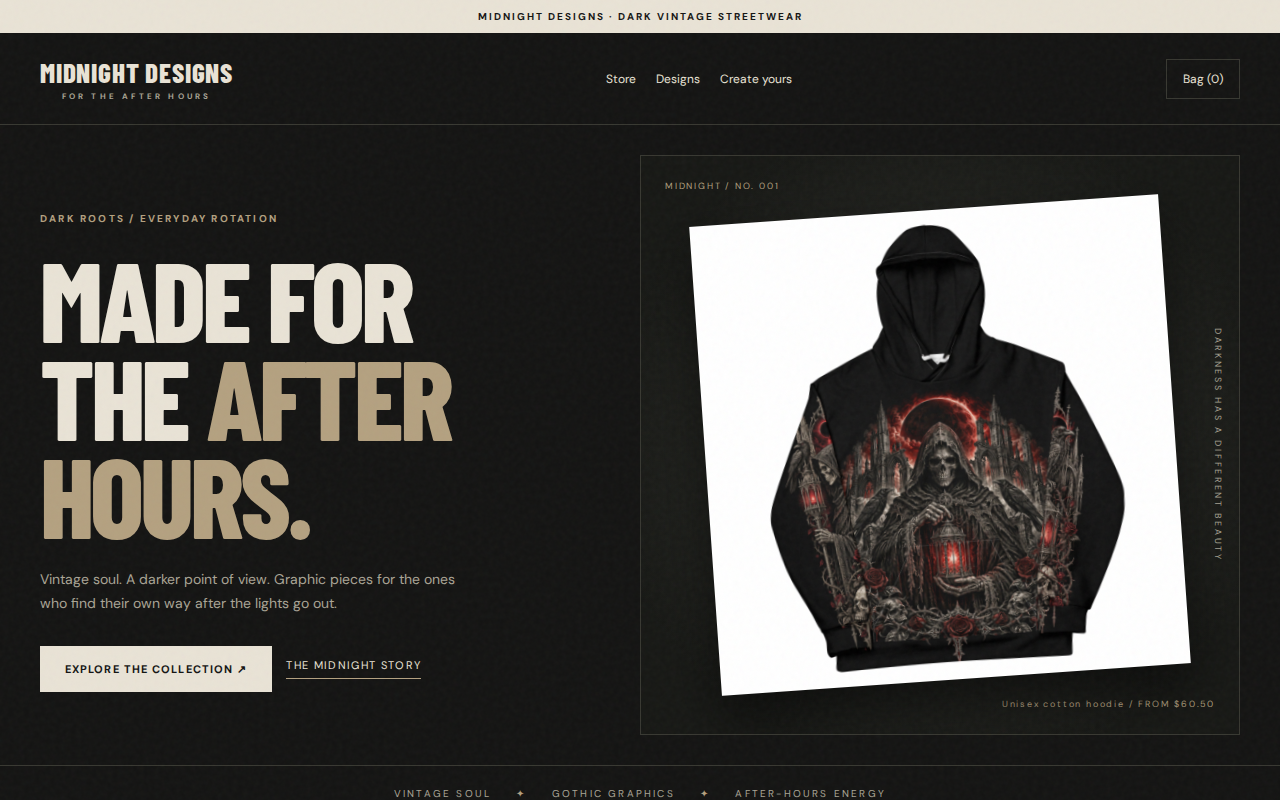
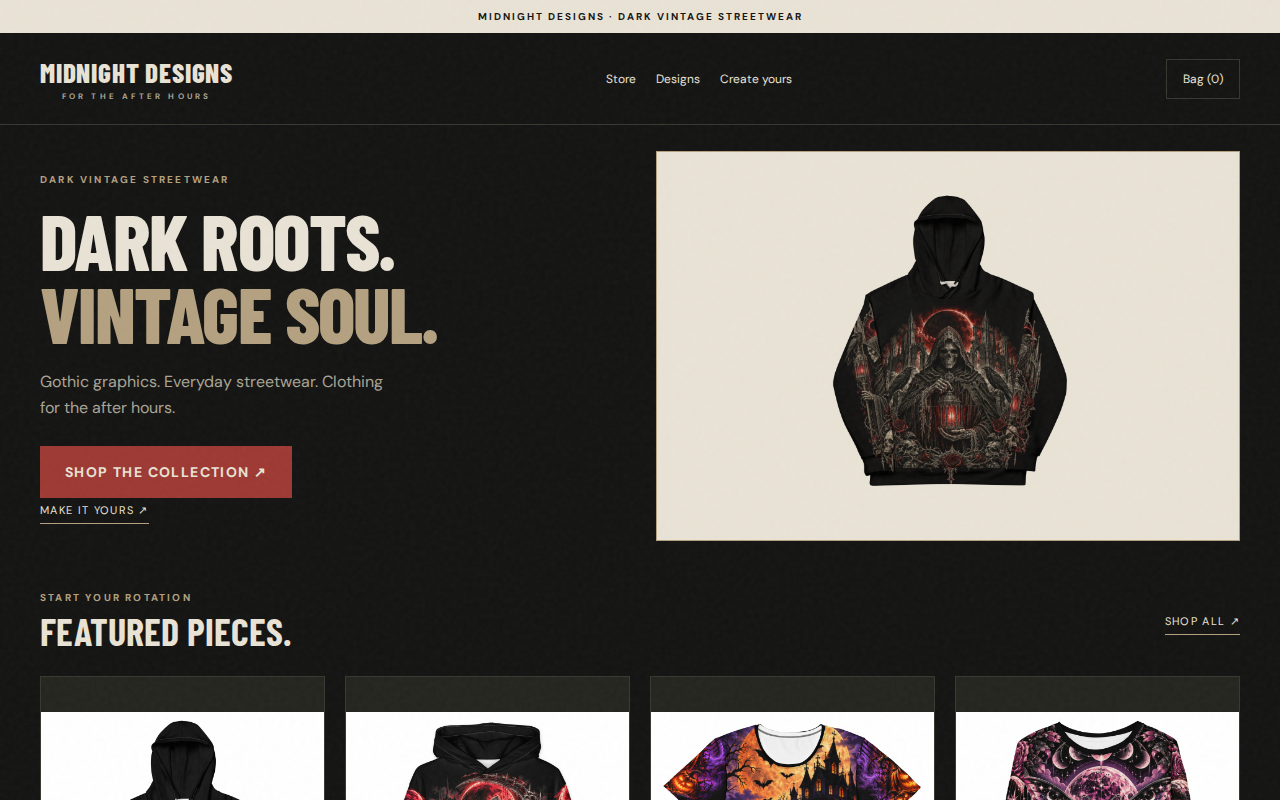
Lead homepage with clothing, a clear Shop action and featured products (#27)
* Lead homepage with actual clothing, concise brand copy and featured pieces

* Refresh homepage and Layout previews

* Blend hero mockup background into the vintage cream photo panel

* Refresh homepage and Layout previews

---------

diff --git a/app.js b/app.js
@@ -13,12 +13,13 @@ function cartTotals(){const totals=new Map();let unavailable=false;for(const x o
 function element(tag,cls,text){const e=document.createElement(tag);if(cls)e.className=cls;if(text!==undefined)e.textContent=text;return e}
 function image(url,alt){const img=element('img');try{const u=new URL(url,location.href);if(u.protocol!=='https:'&&!(u.origin===location.origin&&u.pathname.includes('/assets/product-photos/')))return element('span','notice','Image unavailable');img.src=u.href}catch{return element('span','notice','Image unavailable')}img.alt=alt;img.loading='lazy';img.addEventListener('error',()=>img.replaceWith(element('span','notice','Image unavailable')));return img}
 function empty(target,title,copy){target.replaceChildren();const box=element('div','empty');box.append(element('h3','',title),element('p','',copy));target.append(box)}
-function renderProducts(target,list=PRODUCTS){target.replaceChildren();target.classList.toggle('single',list.length===1);if(!list.length){empty(target,PRODUCTS.length?'No matching pieces.':'The next chapter is coming.','Check back for the latest Midnight Designs collection.');return}for(const p of list){const card=element('article','product-card'),link=element('a','product-image');link.href='product.html?id='+encodeURIComponent(p.id);link.append(image(p.image,p.name));const body=element('div','product-body'),meta=element('div','product-meta');body.append(element('div','eyebrow',p.category));const name=element('a');name.href=link.href;name.append(element('h3','',p.name));const prices=p.variants.map(v=>v.price);meta.append(name,element('div','price',(Math.min(...prices)!==Math.max(...prices)?'From ':'')+money(Math.min(...prices),p.variants[0].currency)));body.append(meta);card.append(link,body);target.append(card)}}
+function renderProducts(target,list=PRODUCTS){target.replaceChildren();target.classList.toggle('single',list.length===1);if(!list.length){empty(target,PRODUCTS.length?'No matching pieces.':'The next chapter is coming.','Check back for the latest Midnight Designs collection.');return}for(const p of list){const card=element('article','product-card'),link=element('a','product-image');link.href='product.html?id='+encodeURIComponent(p.id);const photo=image(p.image,p.name);if(target.dataset.featured)photo.loading='eager';link.append(photo);const body=element('div','product-body'),meta=element('div','product-meta');body.append(element('div','eyebrow',p.category));const name=element('a');name.href=link.href;name.append(element('h3','',p.name));const prices=p.variants.map(v=>v.price);meta.append(name,element('div','price',(Math.min(...prices)!==Math.max(...prices)?'From ':'')+money(Math.min(...prices),p.variants[0].currency)));body.append(meta);card.append(link,body);target.append(card)}}
+function homeProducts(){const ids=($('grid')?.dataset.featured||'').split(',').filter(Boolean);const selected=ids.map(id=>PRODUCTS.find(p=>p.id===id&&p.variants.some(activeVariant))).filter(Boolean);for(const p of PRODUCTS)if(selected.length<4&&!selected.includes(p)&&p.variants.some(activeVariant))selected.push(p);return selected.slice(0,4)}
 function shop(){const categories=[...new Set(PRODUCTS.map(p=>p.category))];for(const c of categories){const o=element('option','',c);o.value=c;$('category').append(o)}function apply(){const query=$('search').value.toLowerCase().trim();let list=PRODUCTS.filter(p=>(!$('category').value||p.category===$('category').value)&&p.name.toLowerCase().includes(query));if($('sort').value!=='default'){const dir=$('sort').value==='low'?1:-1;list.sort((a,b)=>dir*(Math.min(...a.variants.map(v=>v.price))-Math.min(...b.variants.map(v=>v.price))))}renderProducts($('grid'),list);$('catalogStatus').textContent=list.length+' piece'+(list.length===1?'':'s')}for(const id of ['search','category','sort'])$(id).addEventListener(id==='search'?'input':'change',apply);apply()}
 function product(){const p=PRODUCTS.find(p=>p.id===new URLSearchParams(location.search).get('id'));if(!p){$('name').textContent='This piece is unavailable.';$('description').textContent='Explore the collection for available pieces.';$('variant').replaceChildren(element('option','','Unavailable'));return}document.title=p.name+' | Midnight Designs';$('name').textContent=p.name;$('cat').textContent=p.category;$('description').textContent=p.description||'A Midnight Designs piece for your after-hours rotation.';$('visual').append(image(p.image,p.name));for(const url of [...new Set([p.image,...(p.images||[])])]){const button=element('button');button.type='button';button.setAttribute('aria-label','View another image of '+p.name);button.append(image(url,''));button.onclick=()=>$('visual').replaceChildren(image(url,p.name));$('gallery').append(button)}$('variant').replaceChildren();for(const v of p.variants){const option=element('option','',v.name+' — '+money(v.price,v.currency));option.value=v.id;$('variant').append(option)}$('variant').disabled=false;$('add').disabled=false;function update(){const v=p.variants.find(v=>String(v.id)===$('variant').value);$('price').textContent=v?money(v.price,v.currency):'Unavailable';$('add').disabled=!activeVariant(v)}$('variant').onchange=update;update();$('add').onclick=()=>{const v=p.variants.find(v=>String(v.id)===$('variant').value);if(!activeVariant(v)){cartNotice('This option is unavailable. Choose another size or color.');return}const c=cart(),key=p.id+':'+v.id,existing=c.find(x=>x.id===key);if(existing?.qty>=99){cartNotice('You already have the maximum of 99 for this option.');return}if(existing)existing.qty++;else c.push({id:key,productId:p.id,variantId:String(v.id),qty:1});if(saveCart(c)){$('productNotice').textContent='Added to your bag: '+(v.size||'One size')+' · '+(v.color||'Printed design as pictured')+'.';$('add').textContent='Added ✓';setTimeout(()=>$('add').textContent='Add to bag',1500)}}}
 
 function renderCart(){const c=cart(),box=$('items');box.replaceChildren();if(!c.length)box.append(element('p','notice','Your bag is empty. Find your next piece in the collection.'));for(const x of c){const p=PRODUCTS.find(p=>p.id===x.productId),v=p?.variants.find(v=>String(v.id)===x.variantId),available=activeVariant(v);const row=element('div','item'),details=element('div');row.dataset.key=x.id;if(p){const gallery=CART_PHOTOS[p.id];const candidates=gallery?.originalImage===p.image?gallery.photos.filter(photo=>photo.storeVariantIds.includes(x.variantId)):[];const photo=candidates.find(photo=>photo.category==='product'&&/front/i.test(photo.view))||candidates.find(photo=>photo.category==='product')||candidates[0];row.append(image(photo?.image||p.image,p.name+' · '+(v?.size||'')+' · '+(v?.color||'Printed design as pictured')))}else row.append(element('span','','—'));const name=element('a');if(p)name.href='product.html?id='+encodeURIComponent(p.id);name.append(element('b','',p?.name||'Unavailable piece'));details.append(name,element('small','',v?.name||'This option is no longer listed.'),element('small','cart-option','Size: '+(v?.size||'Not supplied')+' · Color / base: '+(v?.color||'Printed design as pictured')));if(!available)details.append(element('small','error','Unavailable — remove this option.'));const remove=element('button','','Remove');remove.type='button';remove.setAttribute('aria-label','Remove '+(p?.name||'unavailable item')+' '+(v?.size||'')+' '+(v?.color||''));remove.onclick=()=>{if(saveCart(cart().filter(line=>line.id!==x.id))){cartNotice('Item removed.');renderCart()}};details.append(remove);const price=element('div');if(available){details.append(element('small','cart-unit-price','Unit price: '+money(v.price,v.currency)));const line=element('div','price');const updateLine=qty=>{const value=lineMoney(v,qty);line.textContent=money(value.minor/value.scale,value.currency)};updateLine(x.qty);price.append(line);const qty=element('input');qty.type='number';qty.min=1;qty.max=99;qty.step=1;qty.value=x.qty;qty.setAttribute('aria-label','Quantity for '+p.name+' '+(v.size||'')+' '+(v.color||''));function change(){const n=Number(qty.value);if(!Number.isInteger(n)||n<1||n>99)return;const current=cart(),item=current.find(item=>item.id===x.id);if(!item){renderCart();return}if(item.qty===n)return;const previous=item.qty;item.qty=n;if(saveCart(current)){cartNotice('Bag updated.');updateLine(n);cartTotals()}else qty.value=previous}qty.oninput=change;qty.onchange=()=>{change();const saved=cart().find(item=>item.id===x.id);if(saved)qty.value=saved.qty};price.append(qty)}row.append(details,price);box.append(row)}cartTotals();updateCartCount()}
 window.addEventListener('storage',event=>{if(event.key===CART_KEY||event.key===null){updateCartCount();if($('items')&&PRODUCTS.length){renderCart();cartNotice('Bag updated from another tab.')}}});
 
-async function init(){updateCartCount();try{const response=await fetch('products.json',{cache:'no-cache'});if(!response.ok)throw Error('catalog');const data=await response.json();if(!Array.isArray(data.products))throw Error('catalog');PRODUCTS=data.products.filter(p=>typeof p.id==='string'&&typeof p.name==='string'&&Array.isArray(p.variants)&&p.variants.length&&p.variants.every(v=>Number.isFinite(v.price)&&v.price>0&&typeof v.currency==='string'));if(PRODUCTS.length&&document.querySelector('.hero-art')){const p=PRODUCTS[0],link=element('a','hero-product');link.href='product.html?id='+encodeURIComponent(p.id);link.append(image(p.image,p.name));document.querySelector('.hero-art').append(link);const label=document.querySelector('.art-bottom');if(label)label.textContent=p.name+' / FROM '+money(Math.min(...p.variants.map(v=>v.price)),p.variants[0].currency)}if($('grid'))$('search')?shop():renderProducts($('grid'),PRODUCTS.slice(0,6));if($('variant'))product();if($('items')){try{const photos=await fetch('product-photos.json',{signal:AbortSignal.timeout(4000)});if(photos.ok)CART_PHOTOS=(await photos.json()).products||{}}catch{}renderCart()}}catch{if($('grid'))empty($('grid'),'The collection could not load.','Please refresh the page or try again shortly.');if($('name'))$('name').textContent='The product could not load.';if($('items'))$('items').textContent='Your bag could not load. Please try again shortly.'}}
+async function init(){updateCartCount();try{const response=await fetch('products.json',{cache:'no-cache'});if(!response.ok)throw Error('catalog');const data=await response.json();if(!Array.isArray(data.products))throw Error('catalog');PRODUCTS=data.products.filter(p=>typeof p.id==='string'&&typeof p.name==='string'&&Array.isArray(p.variants)&&p.variants.length&&p.variants.every(v=>Number.isFinite(v.price)&&v.price>0&&typeof v.currency==='string'));if(PRODUCTS.length&&document.querySelector('.hero-art')){const p=document.body.classList.contains('home')?homeProducts()[0]||PRODUCTS[0]:PRODUCTS[0],link=element('a','hero-product');link.href='product.html?id='+encodeURIComponent(p.id);const heroImage=image(p.image,p.name);heroImage.loading='eager';heroImage.fetchPriority='high';link.append(heroImage);link.setAttribute('aria-label','View '+p.name);document.querySelector('.hero-art').append(link);const label=document.querySelector('.art-bottom');if(label)label.textContent=p.name+' / FROM '+money(Math.min(...p.variants.map(v=>v.price)),p.variants[0].currency)}if($('grid'))$('search')?shop():renderProducts($('grid'),document.body.classList.contains('home')?homeProducts():PRODUCTS.slice(0,6));if($('variant'))product();if($('items')){try{const photos=await fetch('product-photos.json',{signal:AbortSignal.timeout(4000)});if(photos.ok)CART_PHOTOS=(await photos.json()).products||{}}catch{}renderCart()}}catch{if($('grid'))empty($('grid'),'The collection could not load.','Please refresh the page or try again shortly.');if($('name'))$('name').textContent='The product could not load.';if($('items'))$('items').textContent='Your bag could not load. Please try again shortly.'}}
 init();

diff --git a/index.html b/index.html
@@ -1,5 +1,5 @@
 <!doctype html>
-<html lang="en"><head><meta charset="utf-8"><meta name="viewport" content="width=device-width,initial-scale=1"><title>Dark vintage streetwear | Midnight Designs</title><meta name="description" content="Dark vintage streetwear. Gothic graphics and after-hours style from Midnight Designs."><meta name="theme-color" content="#141413"><link rel="stylesheet" href="styles.css"></head><body><a class="skip" href="#main">Skip to content</a><div class="announcement">MIDNIGHT DESIGNS · DARK VINTAGE STREETWEAR</div><header class="header"><div class="nav"><a class="brand" href="index.html">MIDNIGHT DESIGNS<small>FOR THE AFTER HOURS</small></a><nav class="links" aria-label="Main navigation"><a href="shop.html">Store</a><a href="designs.html">Designs</a><a href="custom.html">Create yours</a></nav><a class="pill" href="cart.html">Bag (<span id="cartCount">0</span>)</a></div></header><main id="main"><section class="hero"><div class="hero-copy"><div class="eyebrow">Dark roots / everyday rotation</div><h1>Made for<br>the <em>after<br>hours.</em></h1><p>Vintage soul. A darker point of view. Graphic pieces for the ones who find their own way after the lights go out.</p><div class="hero-actions"><a class="btn" href="shop.html">Explore the collection ↗</a><a class="text-link" href="#about">The Midnight story</a></div></div><div class="hero-art"><span class="art-top">MIDNIGHT / NO. 001</span><svg viewBox="0 0 460 460" aria-hidden="true"><g fill="none" stroke="#b4a180"><circle cx="230" cy="225" r="166" stroke-width="1"/><circle cx="230" cy="225" r="151" stroke-dasharray="2 8"/><path d="M282 94c-83 15-113 139-46 201 26 25 59 36 96 27-26 45-84 68-133 45C78 311 97 125 217 94c20-6 44-6 65 0Z" fill="#b4a180" stroke-width="0"/><path d="M230 13v32m0 350v40M15 225h34m362 0h34M76 69l24 24m261 265 25 25M77 381l24-24M360 92l24-24"/><path d="m307 147 7 21 21 7-21 7-7 21-7-21-21-7 21-7Z"/><path d="m338 234 5 13 13 5-13 5-5 13-5-13-13-5 13-5Z"/><path d="M81 349q-29-58 12-94M379 349q29-58-12-94M85 330l-28-8m30-9-26-14m28-6-23-18M375 330l28-8m-30-9 26-14m-28-6 23-18"/></g><text x="230" y="423" text-anchor="middle" fill="#b4a180" font-family="Georgia,serif" font-size="16" letter-spacing="8">AFTER HOURS</text></svg><span class="art-side">DARKNESS HAS A DIFFERENT BEAUTY</span><span class="art-bottom">THE AFTER HOURS COLLECTION</span></div></section><div class="ticker">VINTAGE SOUL <span>✦</span> GOTHIC GRAPHICS <span>✦</span> AFTER-HOURS ENERGY</div><section class="section" aria-labelledby="collection-title"><div class="section-head"><div><div class="eyebrow">The collection</div><h2 id="collection-title">Enter the rotation.</h2></div><a class="text-link" href="shop.html">Shop all ↗</a></div><div id="grid" class="grid" aria-live="polite"><p>Loading the collection…</p></div></section><section class="story" id="about"><div class="story-inner"><div><div class="eyebrow">The Midnight state of mind</div><h2>Dark roots.<br>Vintage soul.</h2><p>Midnight Designs lives where old-world gothic art meets everyday streetwear. Moonlit imagery, worn tones, and graphics with a story. A wardrobe that feels like you, long after October ends.</p><a class="text-link" href="shop.html">Find your next piece ↗</a></div><div class="manifesto">“Some things look better<br>after the lights go out.”</div></div></section></main><footer class="footer"><a href="master.html">Master dashboard</a><span>© 2026 MIDNIGHT DESIGNS</span><span>DARK ROOTS. EVERYDAY ROTATION.</span><a href="shop.html">Explore the collection ↗</a><a href="shipping.html">Shipping information ↗</a><a href="returns.html">Returns ↗</a><a href="contact.html">Customer support ↗</a></footer><script src="app.js" defer></script><script src="catalog-photos.js?v=1" defer></script></body></html>
+<html lang="en"><head><meta charset="utf-8"><meta name="viewport" content="width=device-width,initial-scale=1"><title>Dark vintage streetwear | Midnight Designs</title><meta name="description" content="Dark vintage streetwear. Gothic graphics and after-hours style from Midnight Designs."><meta name="theme-color" content="#141413"><link rel="stylesheet" href="styles.css"><link rel="stylesheet" href="homepage.css?v=1"></head><body class="home"><a class="skip" href="#main">Skip to content</a><div class="announcement">MIDNIGHT DESIGNS · DARK VINTAGE STREETWEAR</div><header class="header"><div class="nav"><a class="brand" href="index.html">MIDNIGHT DESIGNS<small>FOR THE AFTER HOURS</small></a><nav class="links" aria-label="Main navigation"><a href="shop.html">Store</a><a href="designs.html">Designs</a><a href="custom.html">Create yours</a></nav><a class="pill" href="cart.html">Bag (<span id="cartCount">0</span>)</a></div></header><main id="main"><section class="hero" aria-label="Midnight Designs clothing"><div class="hero-copy"><div class="eyebrow">Dark vintage streetwear</div><h1>Dark roots.<br><em>Vintage soul.</em></h1><p>Gothic graphics. Everyday streetwear. Clothing for the after hours.</p><div class="hero-actions"><a class="btn dark" href="shop.html">Shop the collection ↗</a></div><a class="hero-secondary text-link" href="custom.html">Make it yours ↗</a></div><div class="hero-art"><span class="art-top">MIDNIGHT / FEATURED PIECE</span><span class="art-bottom">DISCOVER THE COLLECTION</span></div></section><section class="section home-featured" aria-labelledby="collection-title"><div class="section-head"><div><div class="eyebrow">Start your rotation</div><h2 id="collection-title">Featured pieces.</h2></div><a class="text-link" href="shop.html">Shop all ↗</a></div><div id="grid" class="grid" data-featured="476651184,476570540,476368661,476363019" aria-live="polite"><p>Loading featured pieces…</p></div></section><section class="story" id="about"><div class="story-inner"><div><div class="eyebrow">The Midnight state of mind</div><h2>Dark roots.<br>Vintage soul.</h2><p>Midnight Designs lives where old-world gothic art meets everyday streetwear. Moonlit imagery, worn tones, and graphics with a story. A wardrobe that feels like you, long after October ends.</p><a class="text-link" href="shop.html">Find your next piece ↗</a></div><div class="manifesto">“Some things look better<br>after the lights go out.”</div></div></section></main><footer class="footer"><a href="master.html">Master dashboard</a><span>© 2026 MIDNIGHT DESIGNS</span><span>DARK ROOTS. EVERYDAY ROTATION.</span><a href="shop.html">Explore the collection ↗</a><a href="shipping.html">Shipping information ↗</a><a href="returns.html">Returns ↗</a><a href="contact.html">Customer support ↗</a></footer><script src="app.js" defer></script><script src="catalog-photos.js?v=1" defer></script></body></html>
 
 
 

diff --git a/homepage.css b/homepage.css
@@ -1,0 +1,5 @@
+.home .hero{min-height:0;grid-template-columns:1fr 1fr;padding:24px 40px;gap:32px;align-items:center}.home .hero-copy{padding:24px 0}.home .hero h1{font-size:clamp(54px,6.1vw,88px);line-height:.94;margin:18px 0;letter-spacing:-.02em}.home .hero p{font-size:16px;max-width:360px;margin:0;line-height:1.65}.home .hero-actions{margin-top:24px}.home .hero-actions .btn{font-size:14px;min-height:52px;min-width:220px}.home .hero-secondary{margin-top:12px}.home .hero-art{margin:0;min-height:0;height:390px;background:var(--white);border-color:var(--sand)}.home .hero-art:before,.home .hero-art:after{display:none}.home .hero-product{width:100%;height:100%;padding:34px 30px 44px}.home .hero-product img{filter:none;transform:none;mix-blend-mode:multiply;object-fit:contain}.home .art-top,.home .art-bottom{color:var(--night);font-size:10px;font-weight:700;letter-spacing:.08em}.home .art-top{top:14px;left:18px}.home .art-bottom{bottom:14px;right:18px;left:18px;text-align:center}.home .home-featured{padding-top:24px;padding-bottom:40px}.home .home-featured .section-head{margin-bottom:18px;align-items:center}.home .home-featured h2{font-size:38px;margin:8px 0}.home .home-featured .grid{grid-template-columns:repeat(4,minmax(0,1fr));gap:20px}.home .home-featured .product-body{padding:10px 0}.home .home-featured .product-body h3{font-size:16px;line-height:1.5;margin:6px 0}.home .home-featured .product-meta{flex-wrap:wrap;gap:6px}.home .home-featured .price{font-size:16px}.home .story-inner{padding-block:45px}.home .story h2{font-size:46px}
+@media(max-width:800px){.home .hero{padding:24px 20px;gap:20px}.home .hero h1{font-size:54px}.home .hero-art{height:340px}.home .hero-product{max-height:none}.home .home-featured .grid{grid-template-columns:repeat(2,minmax(0,1fr))}.home .home-featured .section-head{flex-direction:row}.home .home-featured h2{font-size:32px}.home .hero-secondary{font-size:13px}}
+@media(max-width:600px){.home .hero{grid-template-columns:1fr;padding:18px 20px 12px;gap:16px}.home .hero-copy{padding:0}.home .hero h1{font-size:48px;margin:12px 0}.home .hero p{font-size:15px;max-width:100%;line-height:1.6}.home .hero-actions{margin-top:16px}.home .hero-actions .btn{width:100%;min-height:48px}.home .hero-secondary{display:none}.home .hero-art{height:220px}.home .hero-product{padding:22px 20px 30px}.home .art-top{font-size:9px;top:8px}.home .art-bottom{font-size:10px;bottom:8px}.home .home-featured{padding:18px 20px 30px}.home .home-featured .section-head{gap:10px;margin-bottom:14px}.home .home-featured h2{font-size:28px}.home .home-featured .grid{grid-template-columns:1fr}.home .home-featured .eyebrow{font-size:9px}.home .home-featured .section-head .text-link{white-space:nowrap}.home .home-featured .product-image{max-height:380px}.home .story-inner{padding:35px 20px}.home .manifesto{font-size:24px}}
+
+.home .hero-product{background:var(--white)}
